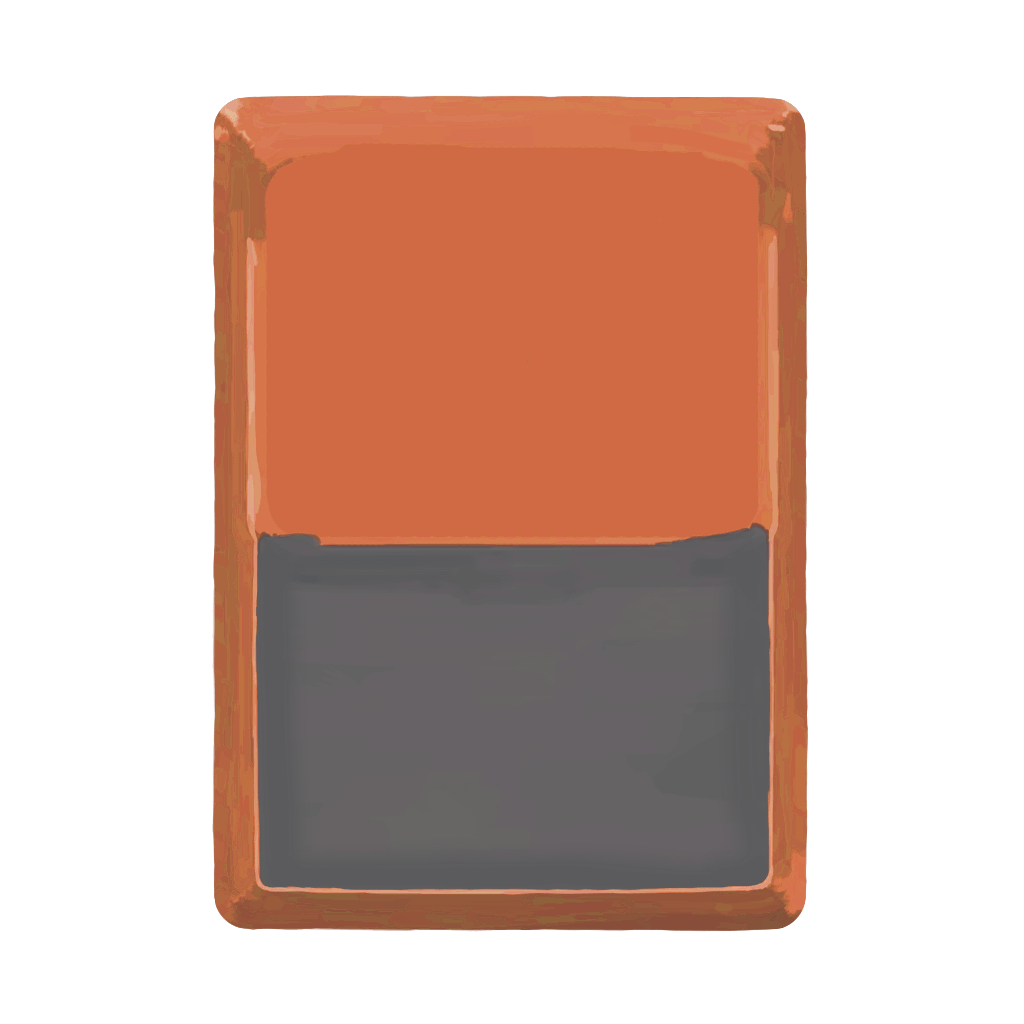
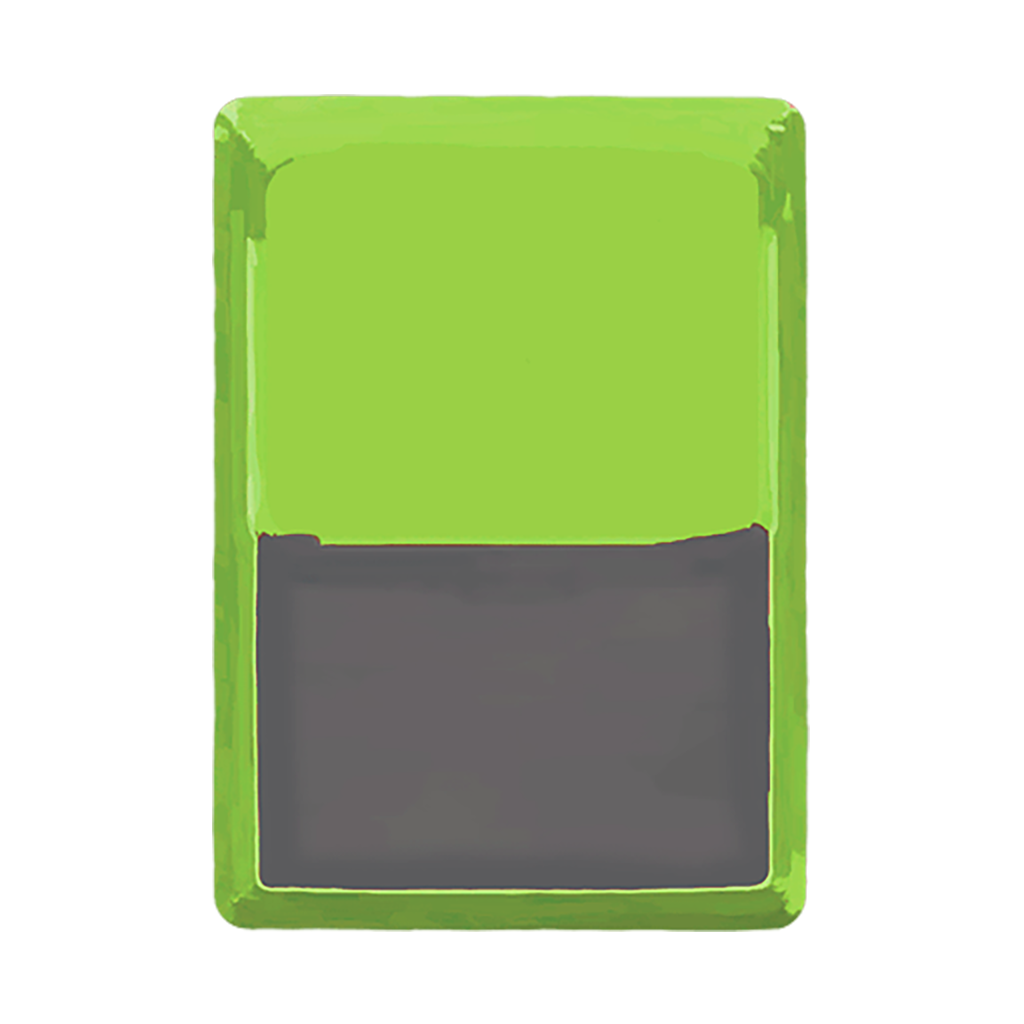
1

diff --git a/src/main/java/demoMod/modecore.java b/src/main/java/demoMod/modecore.java
@@ -1,5 +1,6 @@
 package demoMod;
 
+import basemod.AutoAdd;
 import basemod.helpers.RelicType;
 import basemod.interfaces.EditCharactersSubscriber;
 import basemod.interfaces.EditRelicsSubscriber;
@@ -40,7 +41,7 @@ public class modecore implements EditCardsSubscriber,EditStringsSubscriber,EditC
     // 技能牌的背景（小尺寸）
     private static final String BG_SKILL_512 = "mikanresources/images/512/bg_skill_512.png";
     // 在卡牌和遗物描述中的能量图标
-    private static final String SMALL_ORB = "mikanresources/images/512/small_orb.png";
+    private static final String SMALL_ORB = "mikanresources/images/character_img/small_orb.png";
     // 攻击牌的背景（大尺寸）
     private static final String BG_ATTACK_1024 = "mikanresources/images/1024/bg_attack.png";
     // 能力牌的背景（大尺寸）
@@ -67,9 +68,11 @@ public class modecore implements EditCardsSubscriber,EditStringsSubscriber,EditC
 
     @Override
     public void receiveEditCards() {
-        BaseMod.addCard(new strike_mi());
-        BaseMod.addCard(new defend_mi());
-        BaseMod.addCard(new hammerstrike_mi());
+        //BaseMod.addCard(new strike_mi());
+        new AutoAdd("MikanMod") // 这里填写你在ModTheSpire.json中写的modid
+                .packageFilter(strike_mi.class) // 寻找所有和此类同一个包及内部包的类（本例子是所有卡牌）
+                .setDefaultSeen(true) // 是否将卡牌标为可见
+                .cards(); // 开始批量添加卡牌
     }
 
     public void receiveEditStrings() {

diff --git a/src/main/java/cards/hammerstrike_mi.java b/src/main/java/cards/hammerstrike_mi.java
@@ -16,17 +16,19 @@ import com.megacrit.cardcrawl.monsters.AbstractMonster;
 import com.megacrit.cardcrawl.powers.AbstractPower;
 import com.megacrit.cardcrawl.powers.VulnerablePower;
 
+import static characters.mikan.PlayerColorEnum.EXAMPLE_GREEN;
+
 public class hammerstrike_mi extends CustomCard{
 
     public static final String ID = "mi_hammerstrike";
     private static final CardStrings CARD_STRINGS = CardCrawlGame.languagePack.getCardStrings(ID);
-
+    private static final CardColor COLOR = EXAMPLE_GREEN;
     private static final String NAME = CARD_STRINGS.NAME;
     private static final String DESCRIPTION = CARD_STRINGS.DESCRIPTION;
     private static final String IMG_PATH = "mikanresources/images/cards_img/mi_hammerstrike.png";
     private static final int COST = 1;
     private static final CardType TYPE = CardType.ATTACK;
-    private static final CardColor COLOR = CardColor.COLORLESS;
+    //private static final CardColor COLOR = CardColor.COLORLESS;
     private static final CardRarity RARITY = CardRarity.BASIC;
     private static final CardTarget TARGET = CardTarget.ENEMY;
     private static final int UPGRADE_Base_Cost = 0;

diff --git a/src/main/java/cards/strike_mi.java b/src/main/java/cards/strike_mi.java
@@ -13,8 +13,10 @@ import com.megacrit.cardcrawl.localization.CardStrings;
 import com.megacrit.cardcrawl.monsters.AbstractMonster;
 import pathes.AbstractCardEnum;
 
-public class strike_mi extends CustomCard{
+import static characters.mikan.PlayerColorEnum.EXAMPLE_GREEN;
 
+public class strike_mi extends CustomCard{
+    private static final CardColor COLOR = EXAMPLE_GREEN;
     public static final String ID = "mi_strike";
     private static final CardStrings CARD_STRINGS = CardCrawlGame.languagePack.getCardStrings(ID);
 
@@ -23,7 +25,7 @@ public class strike_mi extends CustomCard{
     private static final String IMG_PATH = "mikanresources/images/cards_img/mi_strike.png";
     private static final int COST = 1;
     private static final CardType TYPE = CardType.ATTACK;
-    private static final CardColor COLOR = CardColor.COLORLESS;
+    //private static final CardColor COLOR = CardColor.COLORLESS;
     private static final CardRarity RARITY = CardRarity.BASIC;
     private static final CardTarget TARGET = CardTarget.ENEMY;
     private static final int UPGRADE_PLUS_DMG = 4;

diff --git a/src/main/java/cards/defend_mi.java b/src/main/java/cards/defend_mi.java
@@ -12,6 +12,8 @@ import com.megacrit.cardcrawl.localization.CardStrings;
 import com.megacrit.cardcrawl.monsters.AbstractMonster;
 import pathes.AbstractCardEnum;
 
+import static characters.mikan.PlayerColorEnum.EXAMPLE_GREEN;
+
 public class defend_mi extends CustomCard
 {
 
@@ -23,7 +25,8 @@ public class defend_mi extends CustomCard
     private static final String IMG_PATH = "mikanresources/images/cards_img/mi_defend.png";
     private static final int COST = 1;
     private static final CardType TYPE = CardType.SKILL;
-    private static final CardColor COLOR = CardColor.COLORLESS;
+    private static final CardColor COLOR = EXAMPLE_GREEN;
+    //private static final CardColor COLOR = CardColor.COLORLESS;
     private static final CardRarity RARITY = CardRarity.BASIC;
     private static final CardTarget TARGET = CardTarget.SELF;
     private static final int UPGRADE_PLUS_BLOCK = 3;
